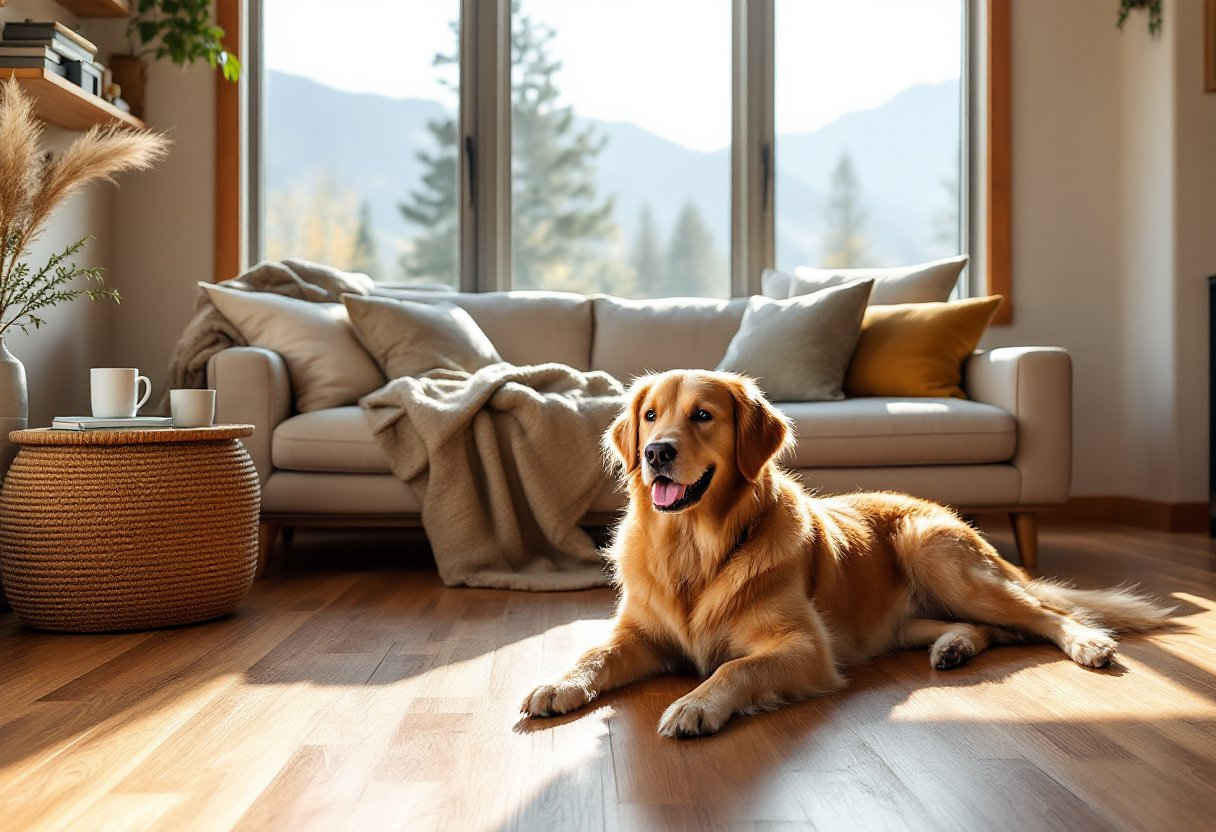
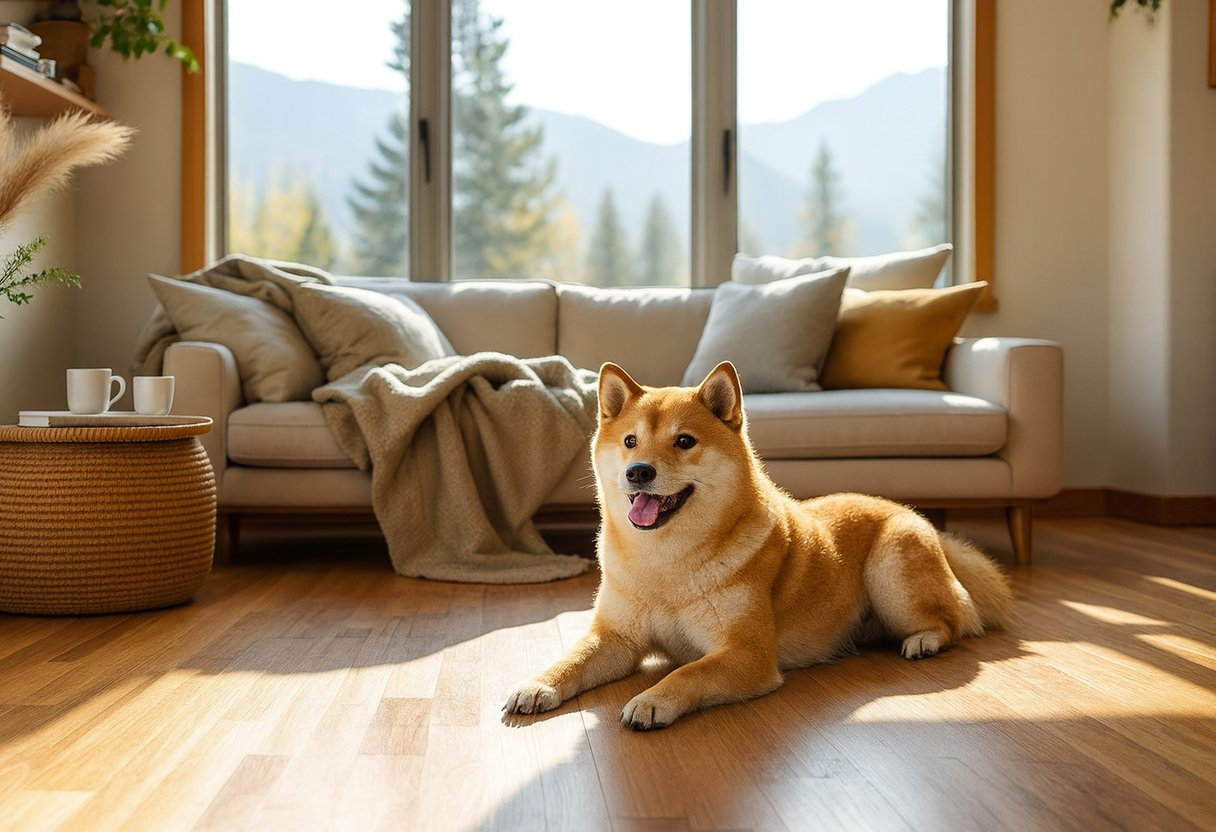
Swap guarantee-room photo dog to a shiba inu
Regenerate assets/split-guarantee-room.jpg with the same room, wide-plank
hardwood floor, sofa, mountain-view windows and afternoon light, but with
a shiba inu in place of the golden retriever, and update the home-page img
alt text to match. Output re-cropped to the original 1216x832 frame; all
other pages reuse the same asset with dog-agnostic alt text.

Claude-Session: https://claude.ai/code/session_01UpKKyKr46Pd8o7R9wNqnG3

diff --git a/index.html b/index.html
@@ -337,7 +337,7 @@
         <div class="split">
           <div class="split-media reveal">
             <img src="assets/split-guarantee-room.jpg" width="1216" height="832" loading="lazy"
-                 alt="Cozy finished family room with warm wide-plank hardwood floors and a golden retriever resting in afternoon sunlight." />
+                 alt="Cozy finished family room with warm wide-plank hardwood floors and a shiba inu resting in afternoon sunlight." />
           </div>
           <div class="split-text reveal d1">
             <p>We make the decision easy. As local experts, we&#39;ll help you weigh budget, style and lifestyle — then point you to the floor that actually fits your home, with no pressure and no upsell.</p>